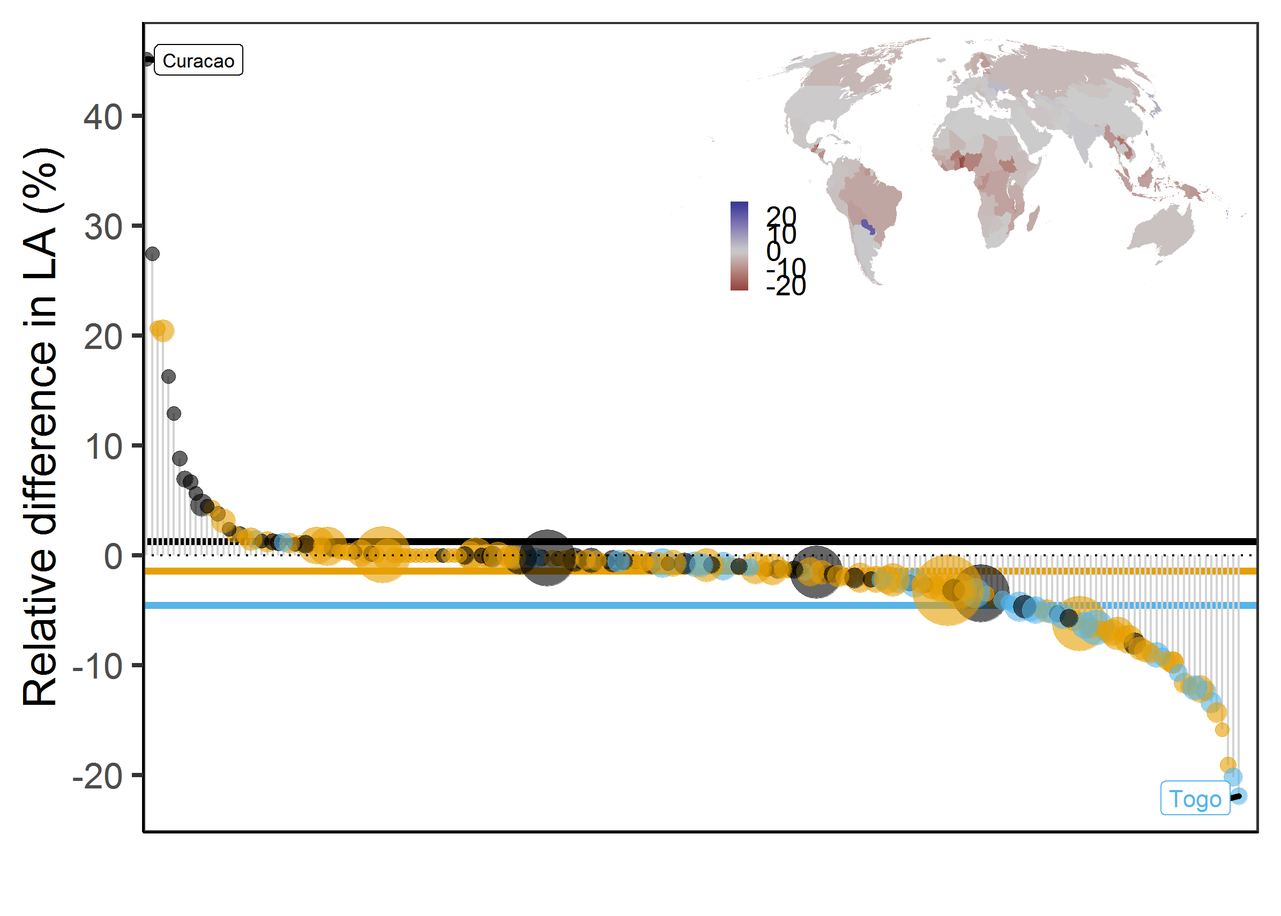
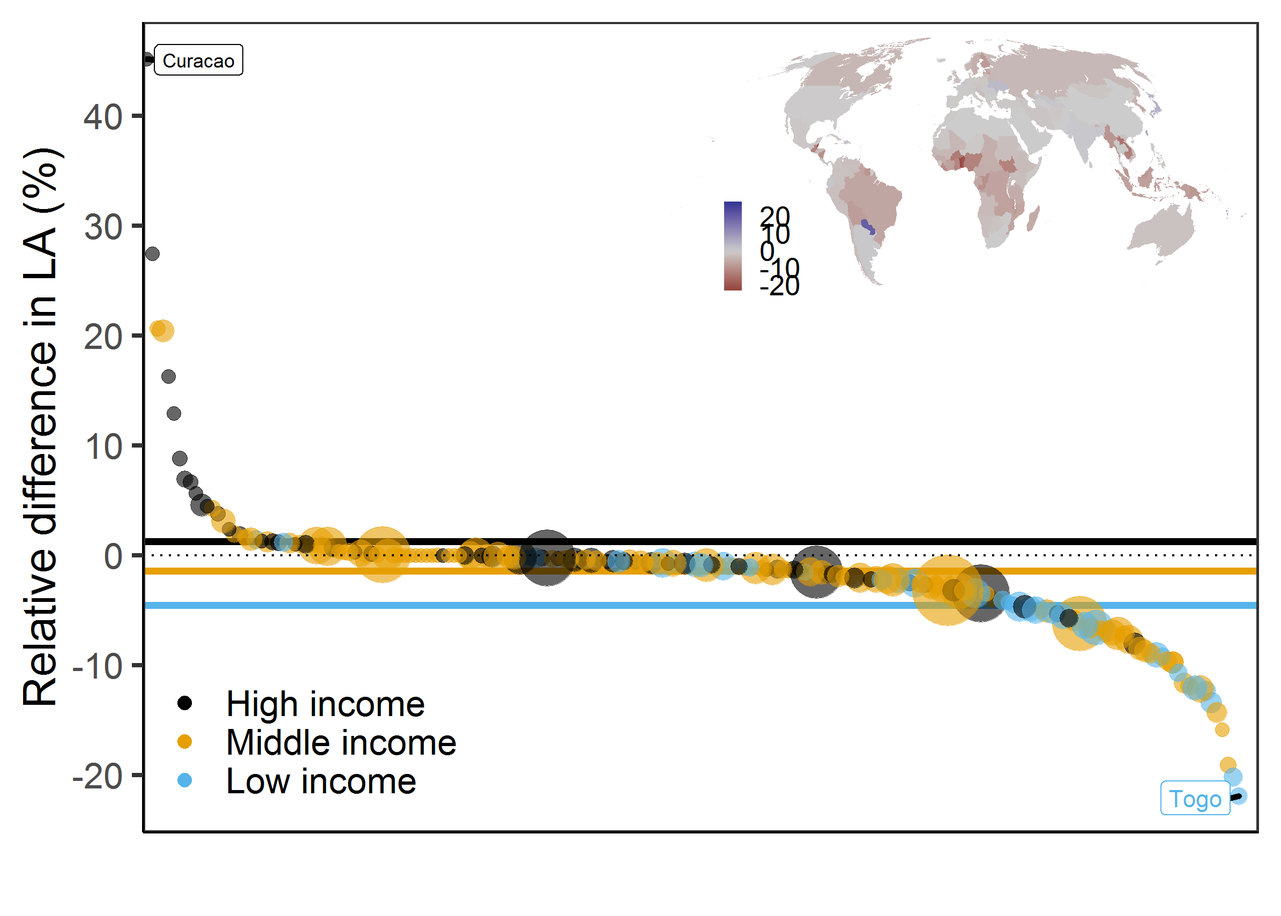
Pedram's comments and changes to Chapter 4

diff --git a/content/04Chapter.tex b/content/04Chapter.tex
@@ -3,21 +3,20 @@
 %\markboth{}{Incorporating land-cover changes between 1992 and 2015 into biodiversity projections }
 \label{C04}
 
-Changes in global land cover are important factors that determine past and present biodiversity patterns. It has been proposed that attributes of land-cover change, such as the time passed or the sequence in land cover \textendash\ \ie\ from forest to agriculture \textendash\ likely affect local biodiversity differently. Local biodiversity might continue to be affected by past land-cover change depending these attributes, which need to be considered to assess biodiversity change, especially in global and national biodiversity projections. Yet, the impacts of attributes of past land-cover change on local biodiversity have not been fully determined globally and most existing biodiversity projections remain largely uninformed of past land-cover change. Here, we combine time series of annual land cover from the period 1992 to 2015 with data of local biodiversity globally. Using hierarchical models comparing sites with and without a land-cover change in the past, we ask whether biodiversity differences vary with the time passed or the sequence after a land-cover change occurred and how this affects global and national biodiversity projections. Overall, we found local biodiversity to be consistently lower in sites with a past land-cover change. However, with increasing time passed after land-cover change local biodiversity recovered to levels comparable to unchanged sites. Furthermore, depending on the land-cover sequence, we observed either increases or decreases in local biodiversity and we demonstrated how a consideration of past land-cover change affects global and national biodiversity projections, especially so in tropical and economically developing countries. Our findings have implications for global biodiversity models given that most past and future projections of biodiversity ignore lasting influences of past land-cover changes. 
+Changes in global land cover are important factors that determine past and present biodiversity projections. It has been proposed that attributes of land-cover change, such as the time passed or the sequence in land cover \textendash\ \ie\ from forest to agriculture \textendash\ likely affect local biodiversity differently. Additionally, attributes of land cover change may have lasting impacts on local biodiversity and thus need to be considered while assessing biodiversity change. Yet, the impacts of attributes of past land-cover change on local biodiversity have not been fully determined globally and most existing biodiversity projections remain largely uninformed of past land-cover change. Here, we combine time series of annual land cover from the period 1992 to 2015 with data of local biodiversity globally. Using hierarchical models comparing sites with and without a land-cover change in the past, we ask whether biodiversity differences vary with the time passed or the sequence after a land-cover change occurred and how this affects global and national biodiversity projections. Overall, we found local biodiversity to be consistently lower in sites with a past land-cover change. However, with increasing time passed after land-cover change local biodiversity recovered to levels comparable to unchanged sites. Furthermore, depending on the land-cover sequence, we observed either increases or decreases in local biodiversity and we demonstrated how a consideration of past land-cover change affects global and national biodiversity projections, especially so in tropical and economically developing countries. Our findings suggest that most global and national biodiversity projections overestimate biodiversity change if they are not accounting for have implications for global biodiversity models given that most past and future projections of biodiversity ignore lasting influences of past land-cover changes.
 
 \section{Introduction}
 \label{C04_01}
 
-The terrestrial surface of the Earth is shaped by natural and anthropogenic processes \citep{Foley2005}. The outcomes of these processes alter soil, plant and human structures, which collectively define terrestrial land cover \citep{DiGregorio2000,Lambin2006}. Land cover \textendash\ quantified as either continuous or categorical estimate of the Earth land surface conditions \textendash\ is commonly derived from remotely-sensed spectral measurements with many studies having mapped the distribution of land-cover categories globally \citep{DeFries1994,Hansen2000,Tuanmu2014,Grekousis2015}. Knowledge of land-cover change is important to help understand biodiversity change and create future projections and scenarios \citep{Harfoot2014,Titeux2016,Kehoe2017a}. Yet, with exception of vegetation \citep{Hansen2013,Song2018}
-or water-covered areas \citep{Pekel2016}, few temporally consistent estimates of global land-cover change exist.
+The terrestrial surface of the Earth is shaped by natural and anthropogenic processes \citep{Foley2005}. The outcomes of these processes alter soil, plant and human structures, which collectively define terrestrial land cover \citep{DiGregorio2000,Lambin2006}. Land cover \textendash\ quantified as either continuous or categorical estimate of the Earth's land surface conditions \textendash\ is commonly derived from remotely-sensed spectral measurements with many studies having mapped the distribution of land-cover categories globally \citep{DeFries1994,Hansen2000,Tuanmu2014,Grekousis2015}. Knowledge of land-cover change is important to help understand biodiversity change and create future projections and scenarios \citep{Harfoot2014,Titeux2016,Kehoe2017a}. Yet only few temporally consistent estimates of land-cover change, with exception of vegetation \citep{Hansen2013,Song2018} or water-covered areas \citep{Pekel2016}, are publicly available at the global scale. 
 
 Quantifying change in remotely-sensed land cover is challenging. For continuous representations of land cover, remotely-sensed changes are commonly detected by exploiting differences in timing, amplitude and direction of remotely-sensed spectral measurements \citep{Coppin2004,Lhermitte2011,Zhu2017}. There have been initial attempts to incorporate land-cover changes detected from these differences into categorical land-cover maps \citep{Zhu2014,Hermosilla2018}, but the majority of land-cover maps remain uninformed of preceding land cover. Quantifying temporal change in categorical representations of land cover has been problematic because of inconsistencies in thematic resolution that lead to unrealistic estimates of land-cover change \citep{VERBURG2011,Cardille2016,Abercrombie2016}. A new generation of temporally consistent time series of land cover \citep{ESA2017,Hermosilla2018,Nowosad2018,Sulla-Menashe2019} are beginning to emerge that allow the investigation of land-cover change globally and its impacts on biodiversity.
 
-Biodiversity is impacted by past and present differences in land cover \citep{Newbold2015,Newbold2016a,Jung2018}. Local species richness has been estimated to be up to 31\% lower globally in the most anthropogenically modified land compared to “primary vegetation” sites \citep{Newbold2015}. However most previous global studies have considered only differences in land use and/or land cover at the time of biodiversity sampling \citep{Gibson2011,Murphy2014,Newbold2015}, thus ignoring lasting influences of past changes in land cover. There is evidence that the occurrence and abundance of species is not only determined by differences in present but also past land cover (Chapter \ref{C03}) through so called ‘biotic lag’ effects, such as ecological memory effects \citep{Ogle2015} or extinction debts \citep{Kuussaari2009}. The impact of past land-cover change on biodiversity likely depends on certain attributes such as magnitude and time passed since land-cover change \citep[Chapter \ref{C03}, ][]{Martin2013,Watson2014,Fu2017} or the sequences of land-cover \citep{Watson2014,Nowosad2018}. 
+Biodiversity is impacted by past and present differences in land cover \citep{Newbold2015,Newbold2016a,Jung2018}. Local species richness has been estimated to be up to 31\% lower globally in the most anthropogenically-modified land compared to “primary vegetation” sites \citep{Newbold2015}. However most previous global studies have considered only differences in land use and/or land cover at the time of biodiversity sampling \citep{Gibson2011,Murphy2014,Newbold2015}, thus ignoring lasting influences of past changes in land cover. There is evidence that the occurrence and abundance of species is not only determined by differences in present but also past land cover (Chapter \ref{C03}) through so called ‘biotic lag’ effects, such as ecological memory effects \citep{Ogle2015} or extinction debts \citep{Kuussaari2009}. The impact of past land-cover change on biodiversity likely depends on certain attributes such as magnitude and time passed since land-cover change \citep[Chapter \ref{C03}, ][]{Martin2013,Watson2014,Fu2017} or the sequences of land-cover \citep{Watson2014,Nowosad2018}. 
 
 Land-cover change causes varying sequences of land cover \citep{Nowosad2018}, which often have differing impacts on local biodiversity \citep{Foster2003}. \cite{Bremer2010} reported an average loss of species richness globally for land changing from grass- or shrubland to forest cover, but not for land changing from secondary vegetation to forest cover. Meanwhile, biodiversity in secondary vegetation has been shown to recover more quickly if land was previously covered by grassland rather than agriculture \citep{Dyer2010}, although among taxonomic groups, especially plant diversity, abundance and growth have been shown to be influenced by lasting influences of an agricultural past \citep{Chazdon2003,Fraterrigo2006,DeFrenne2010,Perring2018}. Other studies have highlighted the lasting effect that changes in forest \citep{Gonzalez2016} or wetland cover \citep{Halstead2014} might have on biodiversity. While these studies suggest that land-cover sequences need to be considered for explaining differences in local biodiversity, little is known about the influence of land-cover sequences across taxonomic groups and at global and national scales, which could affect projections of biodiversity.
 
-To guide decision making, projections of global and national biodiversity change are often useful to inform policy \citep{Pereira2010,Visconti2014}. Biodiversity projections can be used to create scenarios of biodiversity change in response to pressures such as land change \citep{Newbold2015,Newbold2016a,Titeux2016}, which can inform science-policy platforms \citep{Harfoot2014,Visconti2014,Purvis2018} like as the Intergovernmental Platform on Biodiversity and Ecosystem Services (IPBES). However most existing biodiversity projections ignore lasting effects of past land-cover change. This is especially problematic for tropical, developing nations, where much land has been converted from forest to agriculture or pasture covered land in recent decades \citep{Curtis2018} and that are recognized as global biodiversity hotspots \citep{Brooks2002,Laurance2014b}. Under a business-as-usual scenario of future biodiversity change, especially less economically developed countries will suffer the greatest losses in local biodiversity \citep{Newbold2015,Visconti2014}, however these projections might \textendash\ depending on attributes of land-cover change \textendash\ over- or underestimate impacts on biodiversity.
+To guide decision making, projections of global and national biodiversity change are often useful to inform policy \citep{Pereira2010,Visconti2014}. Biodiversity projections can be used to create scenarios of biodiversity change in response to pressures such as land change \citep{Newbold2015,Newbold2016a,Titeux2016}, which can inform science-policy platforms \citep{Harfoot2014,Visconti2014,Purvis2018} like the Intergovernmental Platform on Biodiversity and Ecosystem Services (IPBES). However most existing biodiversity projections ignore lasting effects of past land-cover change. This is especially problematic for tropical, developing nations, where much land has been converted from forest to agriculture or pasture covered land in recent decades \citep{Curtis2018} and that are recognized as global biodiversity hotspots \citep{Brooks2002,Laurance2014b}. Under a business-as-usual scenario of future biodiversity change, especially less economically developed countries will suffer the greatest losses in local biodiversity \citep{Newbold2015,Visconti2014}, however these projections might \textendash\ depending on attributes of land-cover change \textendash\ over- or underestimate impacts on biodiversity.
 
 The overall aim of this study is to investigate (\textit{i}) how local biodiversity is impacted by a land-cover change in the past as derived from a global remotely-sensed land cover product, (\textit{ii}) if impacts on local biodiversity differ with attributes of land-cover change such as differing sequences of land cover or time passed \citep{Watson2014}, and (\textit{iii}) how particularly differing sequences of land cover affect global and national biodiversity projections. Overall, this study adds to our knowledge of how attributes of land-cover change affect local biodiversity and demonstrates how these attributes can be incorporated into global and national biodiversity projections.   
 
@@ -26,7 +25,7 @@ The overall aim of this study is to investigate (\textit{i}) how local biodivers
 \subsection{Species assemblage data}
 \label{C04_0201}
 
-The local biodiversity data were derived from a snapshot (obtained Feb 2016) of the Projecting Responses of Ecological Diversity In Changing Terrestrial Systems (PREDICTS) database which collated data on species’ presence and abundance at sampled ‘sites’ from published ‘studies’ \citep{Hudson2016}. Each PREDICTS site has associated spatial coordinates \textendash\ usually obtained from the text or author of a published study \textendash\ and a record of when and how long biodiversity sampling took place. Species assemblages in the PREDICTS database were sampled at various sampling extents (maximum linear extent, MLE) which are defined by methodology and taxonomic group \citep{Hudson2014}. To link local biodiversity with remotely-sensed land cover data (see \ref{C04_0202}), we used the spatial coordinates of all sites provided by the PREDICTS database as for the majority of sites the MLE is fully contained (median MLE = $40 \pm 56.49$ MAD) within the used grid cell size (\textasciitilde 300m, see methods \ref{C04_0202}).   
+The local biodiversity data were derived from a snapshot (obtained Feb 2016) of the Projecting Responses of Ecological Diversity In Changing Terrestrial Systems (PREDICTS) database which collated data on species’ presence and abundance at sampled ‘sites’ from published ‘studies’ \citep{Hudson2016}. Each PREDICTS site has associated spatial coordinates \textendash\ usually obtained from the text or author of a published study \textendash\ and a record of when and how long biodiversity sampling took place. Species assemblages in the PREDICTS database were sampled at various sampling extents (maximum linear extent, MLE) which are defined by methodology and taxonomic group \citep{Hudson2014}. To link local biodiversity with remotely-sensed land cover data (see \ref{C04_0202}), we used the spatial coordinates of all sites provided by the PREDICTS database as for the majority of sites, the MLE is fully contained (median MLE = $40 \pm 56.49$ MAD) within the used grid cell size (\textasciitilde 300m, see methods \ref{C04_0202}).   
 
 Similar to previous analyses using the same data (\eg Chapter \ref{C02} in this thesis), we calculated several biodiversity measures including the total number of species, individuals and the species assemblage evenness at the site level. We calculated local species richness and \textendash\ where data on species abundance was available \textendash\ the total abundance for each PREDICTS site. For those studies in PREDICTS with differing sampling effort among sites we corrected estimates of total abundance by assuming that total abundance increases linearly with sampling effort \citep{Newbold2014b,Newbold2015}. As a measure of assemblage evenness, we calculated the probability of an interspecific encounter (PIE), which quantifies the probability of two individuals randomly chosen from an assemblage representing different species \citep{Hurlbert1971}. 
 
@@ -41,7 +40,7 @@ For this study, we extracted for each PREDICTS site the land-cover sequence from
 \begin{figure}[htb]
 \centering
 \includegraphics[width=1\textwidth]{chapter4/F01}
-\caption{ (\textbf{a}) Global map depicting the grid cells of the ESA LC product that had $\geq 1$ land-cover change (red) in the period 1992 to 2015. Inset maps focus \textendash\ from left to right \textendash\ on the deforestation in the eastern Amazon basin, expanding soy plantations in Paraguay as well as shrubland loss in south east Australia. Map is projected in an equal-area Mollweide projection (\textbf{b}) Mean proportion of land with a land-cover change (in \%) in the period 1992 to 2015 averaged per 1\textdegree\ of latitude. (\textbf{c}) Example land cover maps of the past and at the time of biodiversity sampling for a single study. Black symbols indicate sites with (diamond) and without (circle) land-cover change. (\textbf{d}) Flow diagram showing the sequence of land cover of all PREDICTS sites with a past land-cover change. Colours as in \textbf{c}.  }
+\caption{ (\textbf{a}) Global map depicting the grid cells of the ESA LC product that had $\geq 1$ land-cover change (red) in the period 1992 to 2015. Inset maps focus \textendash\ from left to right \textendash\ on the deforestation in the eastern Amazon basin, expanding soy plantations in Paraguay as well as shrubland loss in south east Australia. Map is projected in an equal-area Mollweide projection (\textbf{b}) Mean proportion (in \%) of land with a land-cover change (red) in the period 1992 to 2015 averaged per 1\textdegree\ of latitude. (\textbf{c}) Example land cover maps of the past and at the time of biodiversity sampling for a single study. Black symbols indicate sites with (diamond) and without (circle) land-cover change. (\textbf{d}) Flow diagram showing the sequence of land cover of all PREDICTS sites with a past land-cover change. Colours as in \textbf{c}.  }
 \label{F04_01}
 \end{figure}
 % -------------------------------------------- %
@@ -49,7 +48,7 @@ For this study, we extracted for each PREDICTS site the land-cover sequence from
 \subsection{Analyses}
 \label{C04_0203}
 
-The statistical analysis for this study had two main aims. First, we aimed to quantify whether biodiversity measures were different at sites with a past land-cover change compared to sites without any land-cover change in the period 1992 to the start of biodiversity sampling. To do so, we fitted generalized linear mixed effects models (GLMMs) using Poisson distributed errors for species richness and a Gaussian error distribution for total abundance (log10 transformed) and the probability of an interspecific encounter (PIE, asin-squareroot transformed). Following previous studies \citep{Newbold2015,Jung2016} all models included the study identity and a spatial block of sampling design and additionally the ESA LC category at the time of biodiversity sampling as random intercept. We fitted separate GLMMs to assess the difference in local biodiversity measures between sites with and without (\textit{i}) a past land-cover change overall, (\textit{ii}) a categorical representation of the time passed since a land-cover change occurred (unchanged, \ie 0 years, or $\leq$ 5, 5-10, >10 years), (\textit{iii}) distinguishing sites with and without a past land-cover change by their land-cover sequence, for which we fitted separate GLMMs for each ESA LC category at the time of biodiversity sampling using the extracted sequence of land-cover (those with at least 10 sites to ensure robustness of coefficients) categories as fixed effect (Figure \ref{F04_01}\textbf{b}). Lastly (\textit{iv}) we fitted a GLMM using the ESA LC categories at the time of biodiversity sampling and as interacting covariate, human population density data from the global human settlement (GHS) project \citep{Pesaresi2013,Pesaresi2016}. We used data from the GHS project as it is available at a spatial (\textasciitilde 250m) and temporal (1975-2015) resolution that matches the resolution of the ESA LC data. All GLMMs were fitted using the ‘lme4’ package \citep[ver. 1.1-18-1,][]{lme4} in R \citep[ver. 3.5, ][]{RTeam2014}.
+The statistical analysis for this study had two main aims. First, we aimed to quantify whether biodiversity measures were different at sites with a past land-cover change compared to sites without any land-cover change in the period 1992 to the start of biodiversity sampling. To do so, we fitted generalized linear mixed effects models (GLMMs) using Poisson distributed errors for species richness and a Gaussian error distribution for total abundance (log10 transformed) and the probability of an interspecific encounter (PIE, asin-squareroot transformed). Following previous studies \citep{Newbold2015,Jung2016} all models included the study identity and a spatial block of sampling design and additionally the ESA LC category at the time of biodiversity sampling as random intercept. We fitted separate GLMMs to assess the difference in local biodiversity measures between sites with and without (\textit{i}) a past land-cover change overall, (\textit{ii}) a categorical representation of the time passed since a land-cover change occurred (unchanged, \ie 0 years, or $\leq$ 5, 5-10, >10 years), (\textit{iii}) distinguishing sites with and without a past land-cover change by their land-cover sequence, for which we fitted separate GLMMs for each ESA LC category at the time of biodiversity sampling using the extracted sequence of land-cover (those with at least 10 sites to ensure robustness of coefficients) categories as fixed effect (Figure \ref{F04_01}\textbf{b}). Lastly (\textit{iv}) we fitted a GLMM using the ESA LC categories at the time of biodiversity sampling and as interacting covariate, human population density data from the global human settlement (GHS) project \citep{Pesaresi2013,Pesaresi2016} as coarse proxy for anthropogenic use. We used data from the GHS project as it is available at a spatial (\textasciitilde 250m) and temporal (1975-2015) resolution that matches the resolution of the ESA LC data. All GLMMs were fitted using the ‘lme4’ package \citep[ver. 1.1-18-1,][]{lme4} in R \citep[ver. 3.5, ][]{RTeam2014}.
 
 Second, we constructed global and national projections of biodiversity. We used the model described above (\textit{iv}) to project the mean coefficients of local biodiversity onto the global ESA LC map for the year 2015 only, which we resampled to \textasciitilde3 x 3 km spatial resolution by assigning the most dominant (‘modal’) LC value to each grid cell. All predicted estimates were transformed relative to the predicted estimate of a ‘forest’ site with zero human population density in the year 2015 \citep{Newbold2015}. Biodiversity sampling in the majority of PREDICTS sites (96.2\%) occurred between 2000 and 2013 and from the ESA LC maps of the years 2000 and 2015 we constructed a new global map for the year 2015 with each grid cell set to a unique categorical code of the sequence of land-cover (using Cantor’s pairing function). For each separate model (see \textit{iii} above) and unique sequence of land-cover categories a new spatial projection was created for those grid cells with the respective sequence. We then added (to the mean coefficients) those separate spatial projections to the projection of the global mean difference in local biodiversity for the year 2015 (see above), thus “updating” the projected difference in those grid cells only where a past land-cover change has occurred (see Appendix Figure \ref{SI04_01} for a schematic). Some land-cover sequences were not available among PREDICTS sites and here we used the global average impact (see model \textit{i}) in place of no better data available. Because of data limitations, we were also not able to investigate the impact of interactions between land-cover sequences and time passed on local biodiversity. Globally each grid cell has a different baseline level of local biodiversity \textendash\ \eg\ deserts being less species richness than shrublands \textendash\ and we followed \cite{Newbold2015} by weighting all grid cells using either a global layer of terrestrial vertebrate diversity \citep[summed range-of-occurrence maps for bird, mammal and amphibian species,][]{NatureServe2012,IUCN2016a} for species richness or a layer of global photosynthetic activity (average photosynthetic activity as measured by MODIS NDVI in the period 2000-2015) for total abundance and assemblage evenness \citep{Newbold2015}. 
 
@@ -98,7 +97,7 @@ Land cover changes continue to influence biodiversity estimates at the national 
 \begin{figure}[hb]
 \centering
 \includegraphics[width=1\textwidth]{chapter4/F05}
-\caption{ Area-weighted relative difference \textendash\ compared to a projection where past land-cover sequences were not considered \textendash\ in mean national species richness (SR) from 2000 to 2015. Points represent the country-wide average in SR (area-weighted) with the size of the points scaled with land area (small to large). Colours indicate whether countries are considered high (black), middle (orange) or low (blue) income. Outlier countries and overall averages per income group (vertical lines) are indicated. Inset map shows the relative difference in SR from low (red) to high (blue) per country. Plots for total abundance and assemblage evenness are broadly comparable (Appendix Figure \ref{SI04_06} - \ref{SI04_07}). }
+\caption{ Area-weighted relative difference \textendash\ compared to a projection where past land-cover sequences were not considered \textendash\ in mean national species richness (SR) from 2000 to 2015. Points represent the country-wide average in SR (area-weighted) with the size of the points scaled with land area (small to large). Colours indicate whether countries are considered high (black), middle (orange) or low (blue) income. Outlier countries and overall averages per income group (horizontal lines) are indicated. Inset map shows the relative difference in SR from low (red) to high (blue) per country. Plots for total abundance and assemblage evenness are broadly comparable (Appendix Figure \ref{SI04_06} - \ref{SI04_07}). }
 \label{F04_05}
 \end{figure}
 % -------------------------------------------- %

diff --git a/content/06Chapter.tex b/content/06Chapter.tex
@@ -55,7 +55,7 @@ Biodiversity models can be useful to quantify the global impacts of land change 
 The theoretical framework by \cite{Watson2014} distinguishes four attributes of land change, however it does not consider interactions between those attributes. Given that shifts in magnitude are common and vary in frequency for many agricultural landscapes \citep{Kleyer2007}, it is likely that interacting attributes impact local biodiversity differently. Previous studies have hypothesized that impacts of land changes with larger magnitude on local biodiversity likely vary with time passed and affect biodiversity recovery \citep{Shackelford2017}. Similarly, local biodiversity recovery with time passed might differ depending on the sequence in land-cover \citep{Chazdon2003,Martin2013}. The work presented in this thesis used some of the most extensive, currently available local biodiversity datasets, representing \textasciitilde 1\% of all formally described species in the case of PREDICTS \citep{Hudson2016}(Hudson et al. 2017), and the longest timeseries, with over 34 years of continuous sampling, in the case of the BBS \citep[, Figure \ref{F01_01}]{Pardieck2018}. Despite these taxonomically broad and temporally long databases, data limitations made testing for interactive effects between attributes of land change not feasible in the analyses. Future studies could (\textit{i}) utilize modelling approaches less dependent on minimal sample size, \eg Bayesian hierarchical models with informative priors \citep{Iknayan2014} or (\textit{ii}) collect additional biodiversity (see \ref{C06_0303}) and remote sensing data (\ref{C06_0304}). Depending on data availability, future studies could attempt to combine the approaches presented in this thesis, \ie to test for the influence of shifts in magnitude across varying land-cover sequences and/or time passed, which would further improve our understanding of the lasting impacts of land change.
 
 \subsection{Improving availability of biodiversity data}
-\label{C03_0303}
+\label{C06_0303}
 
 Quantifying the impacts of land change on local biodiversity remains a challenge. Most of the work presented in this thesis (Chapter \ref{C02}-\ref{C04}) inferred the impacts of past land change on local biodiversity using matched spatial pairs of sites. While this approach is robust and well established \citep{Purvis2018}, it misses biodiversity dynamics and can even be misleading if reference sites are not appropriate or affected by other unmeasured variables \citep{Franca2016,Jung2016,DePalma2018}. Biodiversity time series, such as those from long-term monitoring schemes such as the BBS \citep{Pardieck2018} or global databases \citep[\eg BioTime, ][]{Dornelas2018}, can provide valuable alternatives to study the impacts of land change on local biodiversity. Observed impacts of land changes on local biodiversity over recent years might be conservative as the regional species pool in many regions of the world was already depleted decades or centuries before local biodiversity sampling and before satellite-based remote sensing data collection \citep{Newbold2016a,Mihoub2017}. In addition, existing biodiversity time series often underrepresent regions where contemporary drivers of biodiversity change are most intense \citep{Gonzalez2016,Cardinale2018}. Overall there is a need to improve both quality and quantity of biodiversity data suitable to test for the impacts of land change.
 

diff --git a/appendix/04AChapter.tex b/appendix/04AChapter.tex
@@ -2,7 +2,7 @@
 \begin{figure}[htb]
 \centering
 \includegraphics[width=1\textwidth]{chapter4/SI01}
-\caption{ Schematic on how spatial projections of biodiversity difference can be informed by models of past land-cover sequences. First a “baseline” spatial projection is created based on the difference in local biodiversity between forest and agricultural sites. Knowing that past land cover in the bottom-right cell was forest covered, this baseline spatial projection is then updated based on the specific coefficient from the models (Figure \ref{F04_03}) for each land-cover sequence. }
+\caption{ Schematic on how spatial projections of biodiversity difference can be informed by models of past land-cover sequences. (\textbf{a}) First a “baseline” spatial projection is created based on the difference in local biodiversity between forest and agricultural sites (-20\% in local biodiversity). Knowing that past land cover in the bottom-right cell was forest covered, this baseline spatial projection is then (\textbf{b}) updated based on the specific coefficient (-5\%) from the models (Figure \ref{F04_03}) for each land-cover sequence. }
 \label{SI04_01}
 \end{figure}
 

diff --git a/front/Acknowledgments.tex b/front/Acknowledgments.tex
@@ -1,6 +1,6 @@
 %\pagestyle{empty}% Set page style to empty
 \thispagestyle{empty}
-\pdfbookmark[0]{Acknowledgements}{Acknowledgements} % Bookmark name visible in a PDF viewer
+%\pdfbookmark[0]{Acknowledgements}{Acknowledgements} % Bookmark name visible in a PDF viewer
 \addcontentsline{toc}{chapter}{\numberline{}Acknowledgements}%
 
 \begin{center}

diff --git a/front/Declaration.tex b/front/Declaration.tex
@@ -1,6 +1,6 @@
  %\thispagestyle{empty}
 %\pagestyle{custom}% Set page style to custom
-\pdfbookmark[0]{Declaration}{declaration} % Bookmark name visible in a PDF viewer
+%\pdfbookmark[0]{Declaration}{declaration} % Bookmark name visible in a PDF viewer
 \addcontentsline{toc}{chapter}{\numberline{}Declaration}%
 
 \vspace*{5cm}

diff --git a/front/Acknowledgments_hidden.tex b/front/Acknowledgments_hidden.tex
@@ -1,5 +1,5 @@
 \pagestyle{empty}% Set page style to empty
-\pdfbookmark[0]{Acknowledgements}{Acknowledgements} % Bookmark name visible in a PDF viewer
+%\pdfbookmark[0]{Acknowledgements}{Acknowledgements} % Bookmark name visible in a PDF viewer
 \addcontentsline{toc}{chapter}{\numberline{}Acknowledgements}%
 
 \begin{center}

diff --git a/front/Abstract.tex b/front/Abstract.tex
@@ -1,7 +1,7 @@
 % % Abstract
 
 \thispagestyle{empty}
-\pdfbookmark[0]{Abstract}{Abstract} % Bookmark name visible in a PDF viewer
+%\pdfbookmark[0]{Abstract}{Abstract} % Bookmark name visible in a PDF viewer
 \addcontentsline{toc}{chapter}{\numberline{}Abstract}%
 
 \begin{center}

diff --git a/front/License.tex b/front/License.tex
@@ -1,5 +1,5 @@
 \newpage \vspace*{8cm}
-\pdfbookmark[0]{License}{License} % Bookmark name visible in a PDF viewer
+%\pdfbookmark[0]{License}{License} % Bookmark name visible in a PDF viewer
 \addcontentsline{toc}{chapter}{\numberline{}License}%
 
 \thispagestyle{empty}
